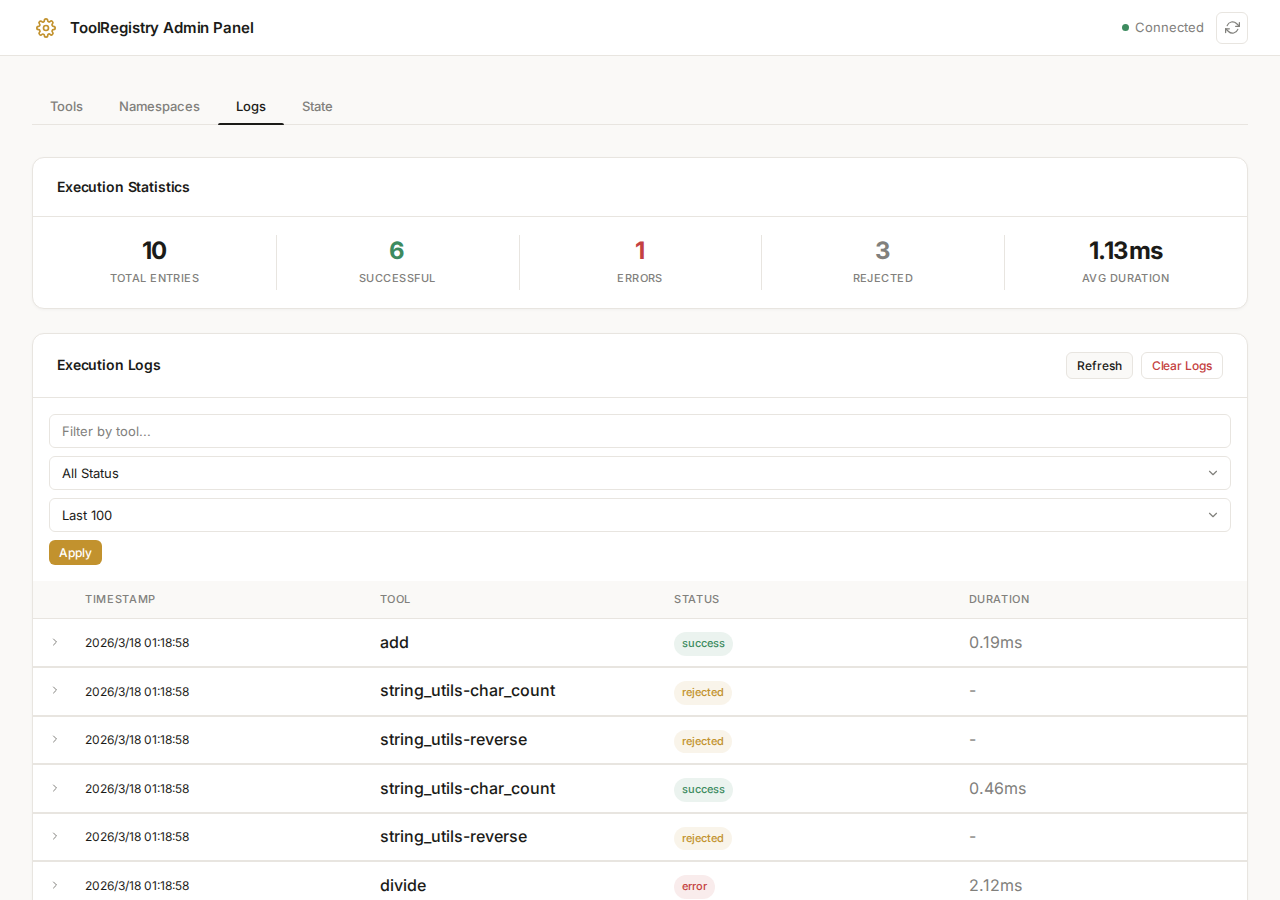
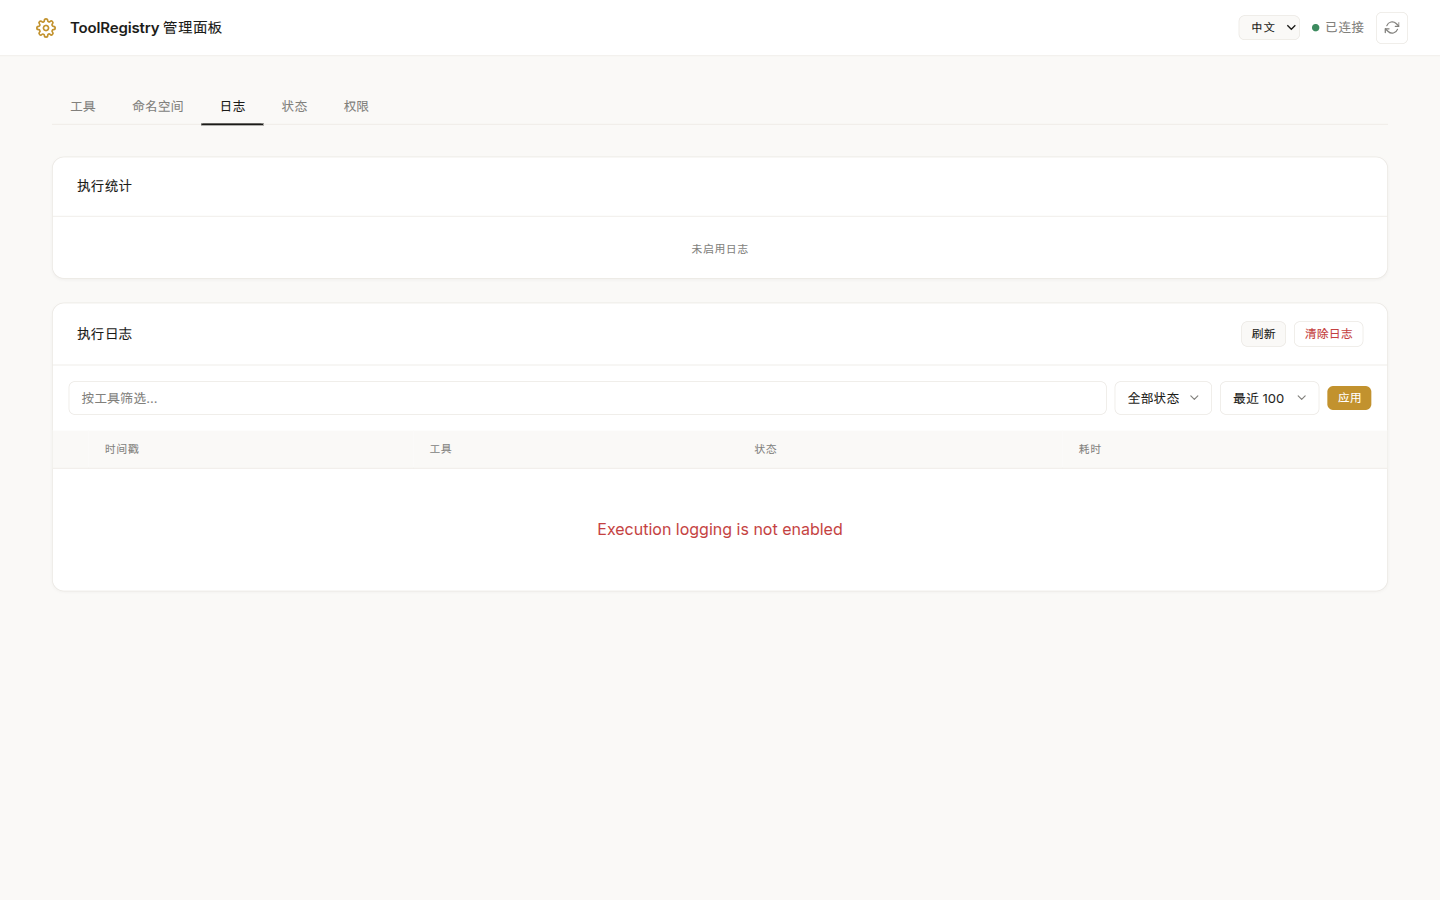
docs: add i18n section and update screenshots for admin panel

diff --git a/docs/changelog.md b/docs/changelog.md
@@ -34,6 +34,13 @@ author: Oaklight
     - 三色开关方案：金色（启用/禁用）、青色（命名空间）、靛蓝色（元数据），提供视觉层次
     - 新增 7 个测试覆盖元数据更新端点
 
+- **管理面板国际化（i18n）**（[#137](../../pull/137)）
+    - 为管理面板 Web UI 添加双语支持（英文/中文）
+    - 标题栏中的语言切换下拉框，通过 `localStorage` 持久化偏好
+    - 所有静态文本使用 `data-i18n` 属性；动态文本使用 `t(key, params)` 翻译函数
+    - 覆盖所有标签页、表头、按钮、过滤器、提示消息、弹窗对话框和空状态
+    - 即时语言切换，自动重新渲染当前活动标签页
+
 ### 重构
 
 - **管理面板异步化迁移**（[#136](../../pull/136)）

diff --git a/docs/admin/web-ui.md b/docs/admin/web-ui.md
@@ -65,3 +65,12 @@ Web UI 分为几个部分：
 - 将当前禁用状态导出为 JSON
 - 导入之前导出的状态
 - 适用于备份/恢复场景
+
+## 语言切换（i18n）
+
+Web UI 支持英文和中文。语言切换下拉框位于页面右上角的标题栏中。
+
+- 选择 **EN** 切换为英文，选择 **中文** 切换为中文
+- 语言偏好通过 `localStorage` 持久化，下次访问时自动恢复
+- 所有 UI 元素即时更新——标签页、表头、按钮、过滤器、提示消息、弹窗对话框和空状态
+- 切换语言时，动态内容（工具列表、日志条目、统计数据）会以所选语言重新渲染

diff --git a/docs/admin/index.md b/docs/admin/index.md
@@ -20,6 +20,7 @@
 - 监控执行日志，支持过滤和统计
 - 导出/导入注册表状态
 - Web UI 可视化管理，支持响应式布局
+- 双语界面（英文/中文），支持即时语言切换
 
 ### 界面截图
 
